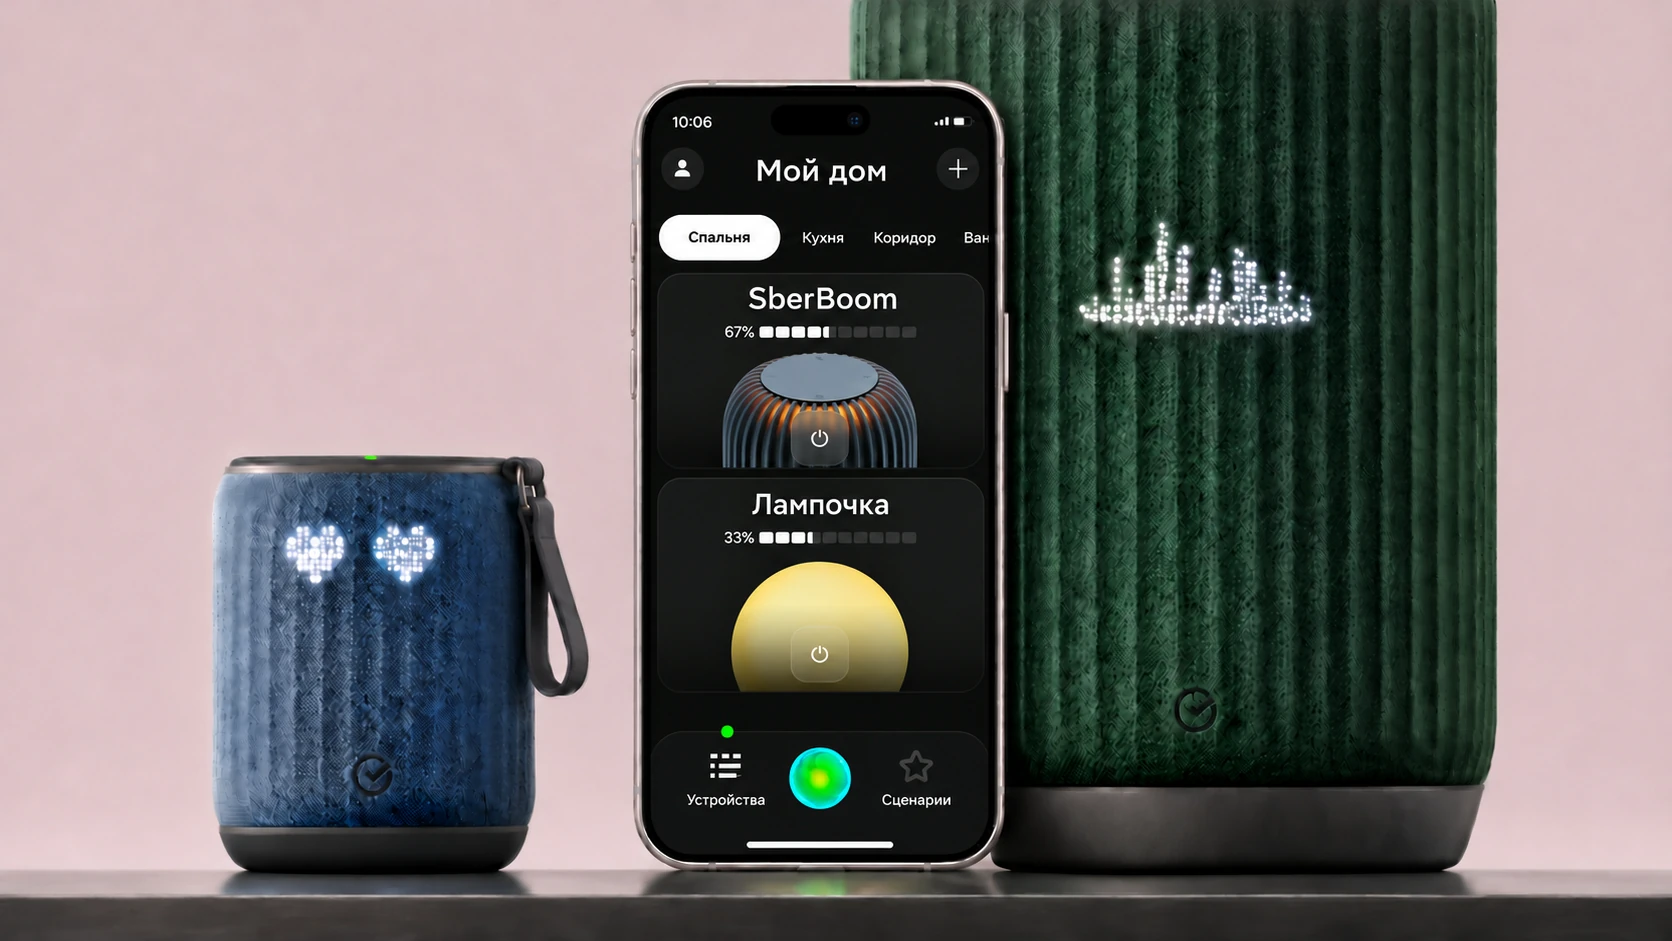
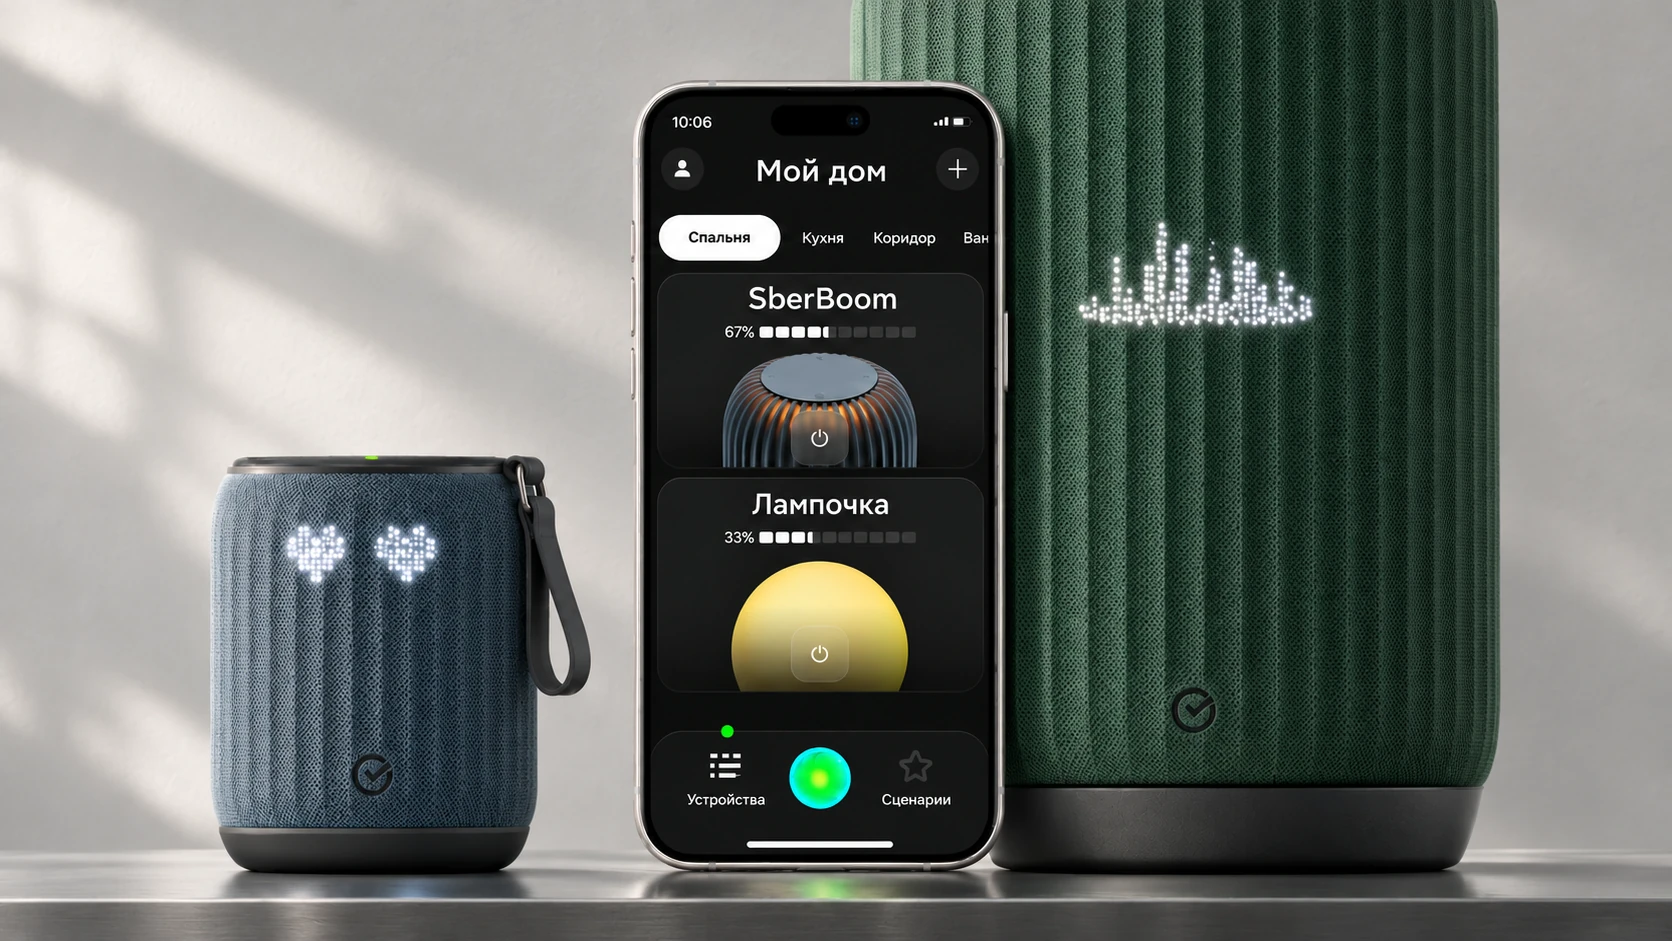
Гигасправка: обновлённая обложка (серый фон со светом) на главной и в шапке кейса
Claude-Session: https://claude.ai/code/session_01Uts8gzEhFyY5EzDRwkpjpk

diff --git a/giga-case.html b/giga-case.html
@@ -7,7 +7,7 @@
   <meta name="description" content="Агентная архитектура поддержки умных устройств SberDevices: агент решает поломки раньше, чем пользователь их заметит.">
   <link rel="preload" href="assets/fonts/onest-cyrillic.woff2" as="font" type="font/woff2" crossorigin>
   <link rel="stylesheet" href="css/v2.css?v=78">
-  <link rel="stylesheet" href="css/case.css?v=78">
+  <link rel="stylesheet" href="css/case.css?v=79">
   <link rel="stylesheet" href="css/theme.css?v=9">
   <script>(function(){try{var t=localStorage.getItem("theme");if(!t)t=matchMedia("(prefers-color-scheme: dark)").matches?"dark":"light";document.documentElement.dataset.theme=t}catch(e){}})()</script>
   <script>if(/[?&]from=proto/.test(location.search)){var st=document.createElement('style');st.textContent='@view-transition{navigation:auto}::view-transition-group(*){animation-duration:.55s;animation-timing-function:cubic-bezier(.65,0,.35,1)}.hero .shot{view-transition-name:'+(location.pathname.indexOf('telemost')>-1?'cover-tm':'cover-giga')+'}';document.head.appendChild(st)}</script>
@@ -33,7 +33,7 @@
       <div><dt>Год</dt><dd>2026</dd></div>
     </dl>
     <figure class="shot gc-shot">
-      <img src="assets/img/giga/hero-mid.webp?v=2" alt="Приложение «Мой дом» на телефоне между колонками SberBoom: карточки колонки и лампочки с уровнем заряда" decoding="async">
+      <img src="assets/img/giga/hero-mid.webp?v=3" alt="Приложение «Мой дом» на телефоне между колонками SberBoom: карточки колонки и лампочки с уровнем заряда" decoding="async">
     </figure>
   </header>
 

diff --git a/index.html b/index.html
@@ -70,7 +70,7 @@
 
     <a class="case card" href="giga-case.html">
       <div class="media"><div class="m-tags" aria-hidden="true"><span>Mobile</span><span>Agent UX</span></div>
-        <img class="gc-cv" src="assets/img/giga/cover-new.webp?v=2" srcset="assets/img/giga/cover-new-sm.webp?v=2 836w, assets/img/giga/cover-new.webp?v=2 1672w" sizes="(max-width:760px) 100vw, 950px" alt="Приложение «Мой дом» на телефоне между колонками SberBoom: карточки колонки и лампочки с уровнем заряда" decoding="async">
+        <img class="gc-cv" src="assets/img/giga/cover-new.webp?v=3" srcset="assets/img/giga/cover-new-sm.webp?v=3 836w, assets/img/giga/cover-new.webp?v=3 1672w" sizes="(max-width:760px) 100vw, 950px" alt="Приложение «Мой дом» на телефоне между колонками SberBoom: карточки колонки и лампочки с уровнем заряда" decoding="async">
       </div>
       <div class="body">
         <div class="name"><img src="assets/img/giga/app-icon.png" alt=""><h2>Гигасправка</h2></div><span class="short">Агент чинит раньше, чем вы&nbsp;заметите</span>

diff --git a/css/case.css b/css/case.css
@@ -588,3 +588,6 @@ h1,h2,h3{text-wrap:balance}
 .hero .shot.gc-shot{aspect-ratio:1095/615}
 .hero .shot.gc-shot img{object-position:50% 50%}
 @media (max-width:760px){ .hero .shot.gc-shot{aspect-ratio:1095/615} }
+/* шапка Гигасправки: тот же кадр, что на главной, целиком */
+.hero .shot.gc-shot{aspect-ratio:1672/941;background:#D9D9D7}
+@media (max-width:760px){ .hero .shot.gc-shot{aspect-ratio:1672/941} }
